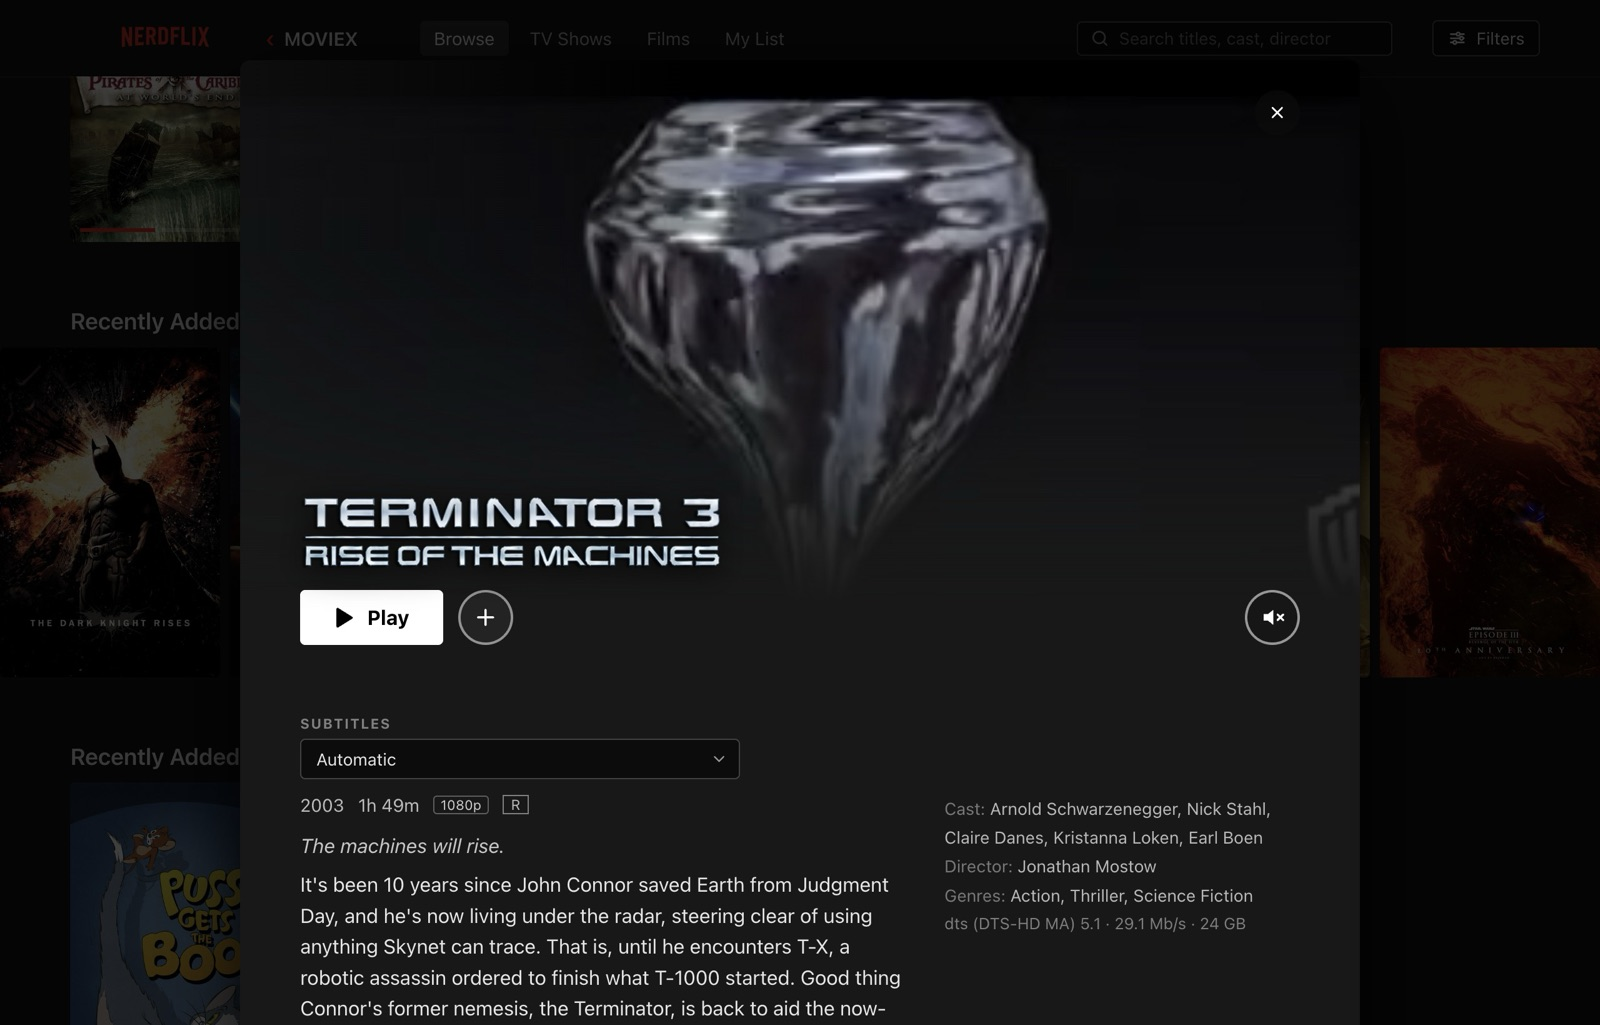
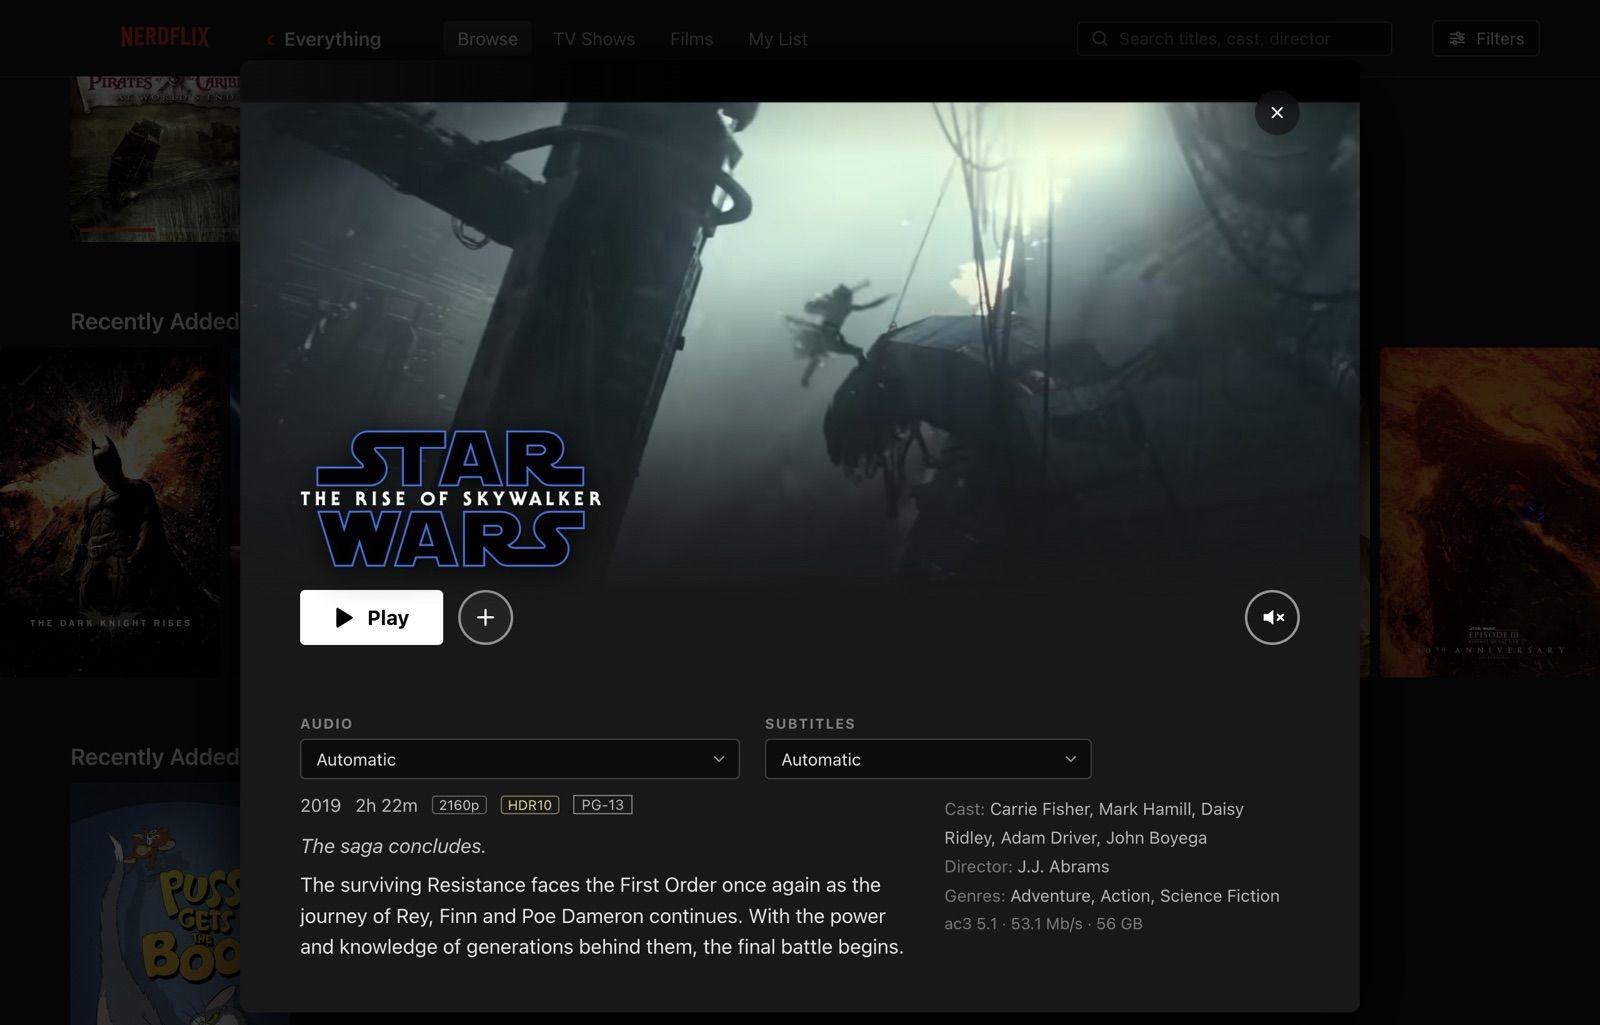
README: screenshots with both drives paired
Recaptured in one run with DOC and MOVIEX both paired, so the library picker
shows the Everything card beside them — "1 title on two drives, counted once" —
and every shot browses the combined library.

The hover preview and the film detail view now use The Rise of Skywalker
(2160p, HDR10). Terminator 3's trailer stopped autoplaying in the embed, and
YouTube's red play button sat where the preview should be; the app cannot see
inside the frame to tell, so the capture script names a film by eye.

diff --git a/README.md b/README.md
@@ -98,7 +98,7 @@ it claims to show.
 
 |  |  |
 |---|---|
-| ![The library picker](docs/screenshots/01-library-picker.jpg) | **Your drives, as they are.** A card per drive that says what it holds — films and shows counted separately — with Rescan beside it. Pair several and a combined card appears, counting a film held on two drives once. |
+| ![The library picker](docs/screenshots/01-library-picker.jpg) | **Your drives, as they are.** A card per drive that says what it holds — films and shows counted separately — with Rescan beside it. Pair several and an *Everything* card joins them, counting a film held on two drives once — and saying so. |
 
 ---
 
